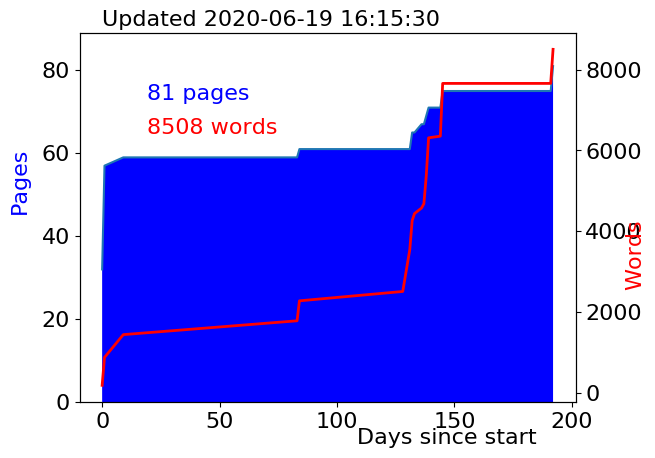
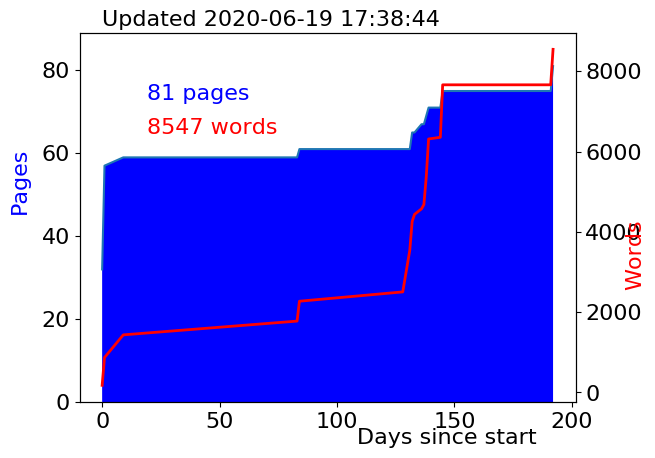
trying to fix something i messed up

diff --git a/Chapters/ATLAS.tex b/Chapters/ATLAS.tex
@@ -27,10 +27,17 @@ A particle's momentum will generally be described in terms of its \pT, its momen
 
 
 
+
+
 \section{Inner Detector}
-The Inner Detector measures the trajectories of charged particles resulting from \ac{LHC} collisions. The \ac{ID} covers the region with $|\eta| < 2.5$, measuring approximately $1000$ particles per bunch crossing. To achieve the physics goals of the \ac{ATLAS} detector, a \pt resolution of $0.05\%$ is required. In order to achieve this, three subdetectors are used: the Pixel detector, the \ac{SCT}, and the \ac{TRT}. The Pixel and \ac{SCT} detectors are used for high granularity precision tracking and the \ac{TRT} is used to distinguish electrons from converted photons. All of this is immersed in a $2T$ magnetic field, curving charged particles in proportion to its momentum.
+The Inner Detector measures the trajectories of charged particles resulting from \ac{LHC} collisions. The \ac{ID} covers the region with $|\eta| < 2.5$, measuring approximately $1000$ particles per bunch crossing. In order to achieve the momentum and vertex resolution required to achieve \ac{ATLAS}'s physics goals three subdetectors are used: the Pixel detector, the \ac{SCT}, and the \ac{TRT}. The Pixel and \ac{SCT} detectors are used for high granularity precision tracking and the \ac{TRT} is used to distinguish electrons from converted photons. All of this is immersed in a $2T$ magnetic field, curving charged particles in proportion to its momentum.
 
 \todo{describe conversions somewhere... Maybe in particle descriptions in theory?}
+
+
+The \pt resolution of the \ac{ID} scales with track \pt. Higher \pt tracks are less curved, so the measurement resolution is worse. In the \ac{ATLAS} \ac{ID}, the \pt resolution  $0.05\% \times \pt$ with a $1\%$ constant term. The constant term describes measurement uncertainties that do not scale with momentum or energy, such as material imperfections, non-uniform detector response, or other constant measurement issues and is added in quadrature ($\oplus$) with the stochastic term.
+
+
 
 A schematic of the \ac{ID} can be seen in \autoref{fig:atlas-id} and a detailed distribution of the various subdetectors is shown in \autoref{fig:atlas-id-layers}. 
 
@@ -59,7 +66,7 @@ A schematic of the \ac{ID} can be seen in \autoref{fig:atlas-id} and a detailed 
 
 \section{Calorimeters}
 
-The \ac{ATLAS} calorimeters measure the energy of electromagnetic and hadronic particles. The \ac{LAr} electromagnetic sampling calorimeter is the innermost calorimeter and gives excellent energy and position resolution, with energy resolution of $10\%$ in the region with $|\eta| < 3.2$. The hadronic scintillator-tile calorimeter surrounds the \ac{LAr} and gives $50\%$ energy resolution in the region with $|\eta| < 3.2$. There are additional \ac{EM} and hadronic calorimeters in the forward region, extending coverage to $|\eta| < 4.9$ with worse energy resolution. A schematic of the \ac{ATLAS} calorimeters can be seen in \autoref{fig:atlas-calos}. 
+The \ac{ATLAS} calorimeters measure the energy of electromagnetic and hadronic particles. The \ac{LAr} electromagnetic sampling calorimeter is the innermost calorimeter and gives excellent energy and position resolution, with energy resolution of $10\%/\sqrt{E} \oplus $ in the region with $|\eta| < 3.2$. The hadronic scintillator-tile calorimeter surrounds the \ac{LAr} and gives $50\%/\sqrt{E} \oplus 3\%$ energy resolution in the region with $|\eta| < 3.2$. Additional \ac{EM} and hadronic calorimeters in the forward region extend coverage to $|\eta| < 4.9$, but with worse energy resolution ($100\%/\sqrt{E} \oplus 10\%$). Unlike the tracker, the energy resolution of a calorimeter increases with increasing energy due to the increased signal generated. A schematic of the \ac{ATLAS} calorimeters can be seen in \autoref{fig:atlas-calos}. 
 
 
 %https://arxiv.org/pdf/1603.02934.pdf
@@ -77,7 +84,7 @@ The \ac{ATLAS} calorimeters measure the energy of electromagnetic and hadronic p
 
 
 \section{Muon Spectrometer}
-The Muon Spectrometer is the outermost subdetector designed to measure muons, which are too massive to be stopped by the \ac{LAr}. The \ac{MS} relies on a air-core toroidal magnet system which provide a strong bending power without introducing extra material scattering. It includes three layers of high precision tracking, which give a momentum resolution of $10\%$ and separate trigger chambers with timing resolution of $1.5-4 \textrm{ns}$. 
+The Muon Spectrometer is the outermost subdetector designed to measure muons, which are too massive to be stopped by the \ac{LAr}. The \ac{MS} relies on a air-core toroidal magnet system which provide a strong bending power without introducing extra material scattering. It includes three layers of high precision tracking, which give a momentum resolution of $10\%$ at $\pT > 1 \TeV$ \footnote{At high \pt, the \ac{MS} performance is independent of the \ac{ID} resolution.} and separate trigger chambers with timing resolution of $1.5-4 \textrm{ns}$. 
 
 %$https://cds.cern.ch/record/1631701/files/MuonSpectrometer_profile.png
 \begin{figure}[htbp]
@@ -92,15 +99,7 @@ The Muon Spectrometer is the outermost subdetector designed to measure muons, wh
 \label{sec:magnets}
 
 
-\section{Particles in ATLAS}
-The previously described subdetectors are used in combination to identify particles in \ac{ATLAS}.
 
-\begin{figure}[htbp]
-\centering
-\includegraphics[width=.9\textwidth]{figures/Detector/particle-doodle.png}
-\caption{A schematic of the signatures of Standard Model particles in the \ac{ATLAS} detector that illustrates how the subdetectors are used together to identify particles. Dashed lines indicate a particle trajectory that leaves no detector signature. Figure not drawn to scale. }
-\label{fig:particle-doodles}
-\end{figure}
 
 
 

diff --git a/scripts/pages.md b/scripts/pages.md
@@ -173,3 +173,7 @@
 + [2020-06-19-16h14m19s] 81 8508
 + [2020-06-19-16h14m45s] 81 8508
 + [2020-06-19-16h15m30s] 81 8508
++ [2020-06-19-16h23m01s] 81 8635
++ [2020-06-19-16h27m09s] 81 8667
++ [2020-06-19-17h11m59s] 81 8697
++ [2020-06-19-17h38m44s] 81 8547
